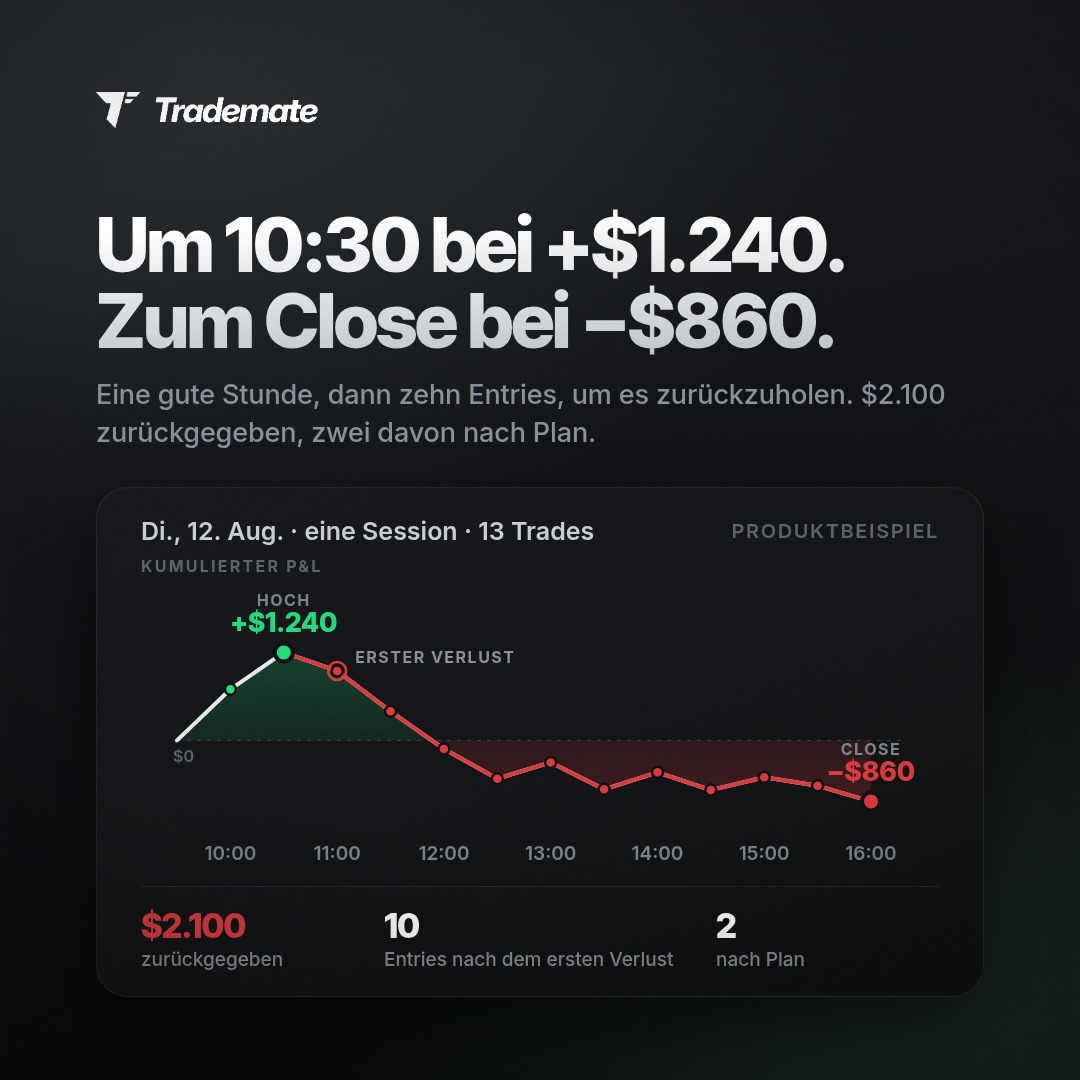
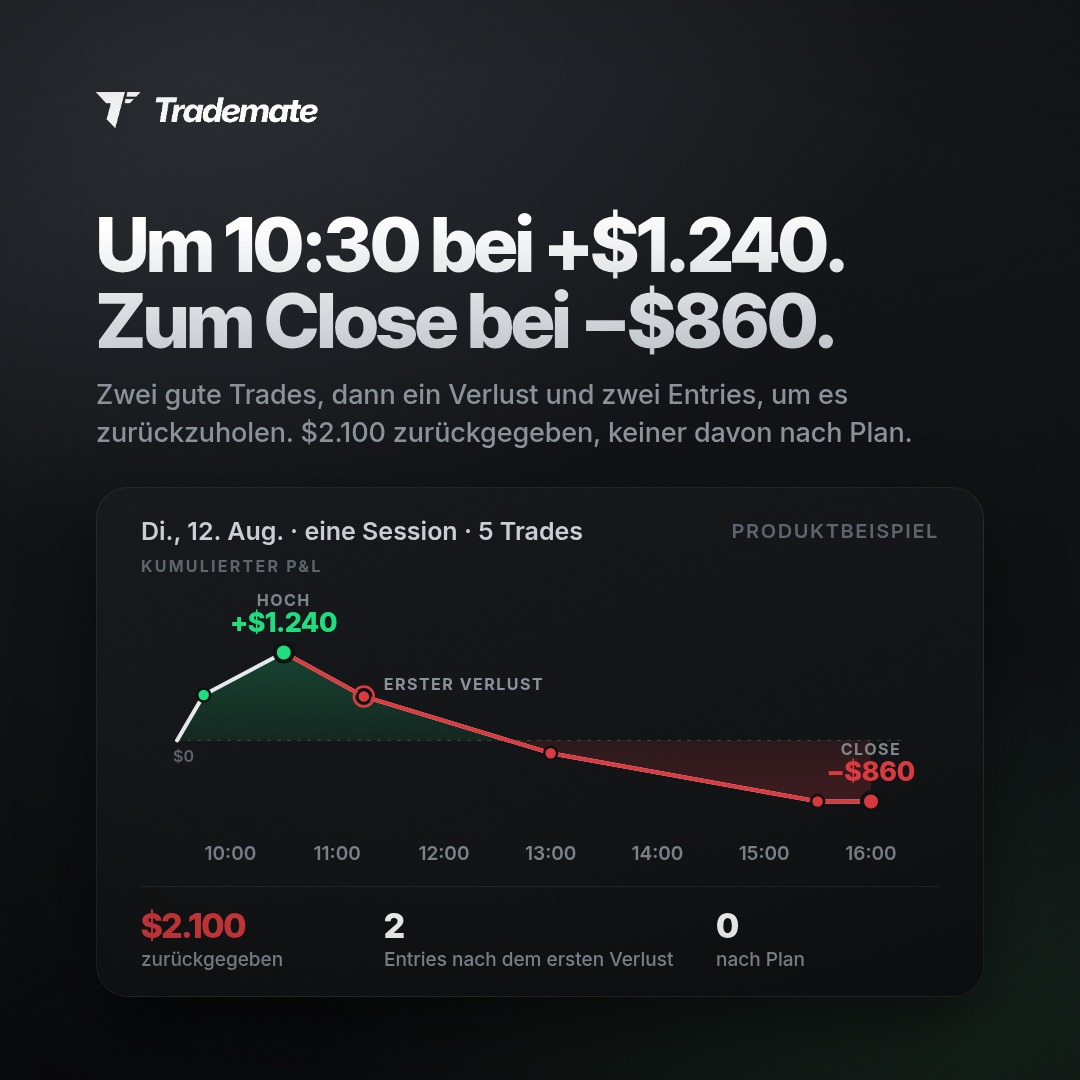
Day post: five trades, not thirteen
Thirteen entries a session is scalper volume, not a day trader's. The
session now has five: two wins to +$1,240, the first loss at 11:15, then
two oversized entries to get it back, closing at -$860. The curve is
time-based so the trades sit at their real times and the line holds flat
into the close. KPI strip and captions updated to match.

Claude-Session: https://claude.ai/code/session_01N2gUmRZUhZ4hqjJePYK53L

diff --git a/posts/pain-day-swing/src/post.html b/posts/pain-day-swing/src/post.html
@@ -163,9 +163,9 @@ en:{
   stB:'Auto charts', stBd:'Every trade gets its chart attached automatically. Entry, exit, stop, target.',
   vote:'Vote below', zoneA:'Poll sticker goes here', zoneB:'Options: Backtesting · Auto charts',
   disc:'Product concept. Features shown are planned, not final.',
-  dayH:'Up $1,240 at 10:30.<br>Down $860 at the close.', dayS:'One good hour, then ten entries to get it back. $2,100 given back, two of them on the plan.',
-  dayM:'Tue, Aug 12 · one session · 13 trades', dayY:'Cumulative P&L', dayF:'Product example', dayHi:'High', dayCl:'Close', dayFL:'First loss',
-  dayK:[['$2,100','given back'],['10','entries after the first loss'],['2','on the plan']],
+  dayH:'Up $1,240 at 10:30.<br>Down $860 at the close.', dayS:'Two good trades, then one loss and two entries to get it back. $2,100 given back, neither of them on the plan.',
+  dayM:'Tue, Aug 12 · one session · 5 trades', dayY:'Cumulative P&L', dayF:'Product example', dayHi:'High', dayCl:'Close', dayFL:'First loss',
+  dayK:[['$2,100','given back'],['2','entries after the first loss'],['0','on the plan']],
   swH:'Your plan: +$2,750.<br>You: −$1,250.', swS:'Same six trades. One runner cut at +0.6R that went to +4R. One stop ignored into the weekend. One stop moved. Between the plan and the trader: $4,000.',
   swM:'This month · 6 swing trades · 1R = $500', swN:'As traded', swP:'On plan', swF:'Product example', plan:'On plan', early:'Cut early', earlyN:'ran to', ignored:'Stop ignored', ignoredN:'planned', moved:'Stop moved', movedN:'planned'
 },
@@ -193,9 +193,9 @@ de:{
   stB:'Auto-Charts', stBd:'Jeder Trade bekommt seinen Chart automatisch angehängt. Entry, Exit, Stop, Ziel.',
   vote:'Stimm unten ab', zoneA:'Umfrage-Sticker hier platzieren', zoneB:'Optionen: Backtesting · Auto-Charts',
   disc:'Produktkonzept. Gezeigte Funktionen sind geplant, nicht final.',
-  dayH:'Um 10:30 bei +$1.240.<br>Zum Close bei −$860.', dayS:'Eine gute Stunde, dann zehn Entries, um es zurückzuholen. $2.100 zurückgegeben, zwei davon nach Plan.',
-  dayM:'Di., 12. Aug. · eine Session · 13 Trades', dayY:'Kumulierter P&L', dayF:'Produktbeispiel', dayHi:'Hoch', dayCl:'Close', dayFL:'Erster Verlust',
-  dayK:[['$2.100','zurückgegeben'],['10','Entries nach dem ersten Verlust'],['2','nach Plan']],
+  dayH:'Um 10:30 bei +$1.240.<br>Zum Close bei −$860.', dayS:'Zwei gute Trades, dann ein Verlust und zwei Entries, um es zurückzuholen. $2.100 zurückgegeben, keiner davon nach Plan.',
+  dayM:'Di., 12. Aug. · eine Session · 5 Trades', dayY:'Kumulierter P&L', dayF:'Produktbeispiel', dayHi:'Hoch', dayCl:'Close', dayFL:'Erster Verlust',
+  dayK:[['$2.100','zurückgegeben'],['2','Entries nach dem ersten Verlust'],['0','nach Plan']],
   swH:'Dein Plan: +$2.750.<br>Du: −$1.250.', swS:'Dieselben sechs Trades. Ein Runner bei +0,6R gekappt, der bis +4R lief. Ein Stop übers Wochenende ignoriert, einer verschoben. Zwischen Plan und Trader: $4.000.',
   swM:'Dieser Monat · 6 Swing-Trades · 1R = $500', swN:'So gehandelt', swP:'Nach Plan', swF:'Produktbeispiel', plan:'Nach Plan', early:'Zu früh raus', earlyN:'lief bis', ignored:'Stop ignoriert', ignoredN:'geplant', moved:'Stop verschoben', movedN:'geplant'
 }}[LANG];
@@ -221,35 +221,31 @@ function candles(){ // deterministic little 5m chart for slide 6
 const logo='<img class="logo" src="logo.png" alt="Trademate">';
 const foot=(n)=>'<div class="foot"><span>'+C.brand+'</span><span>'+(n<7?C.swipe:'')+'</span><span>'+n+' / 7</span></div>';
 function runningPnl(){
-  const pts=[['09:30',0],['10:00',720],['10:30',1240],['11:00',980],['11:30',410],['12:00',-120],['12:30',-540],['13:00',-310],['13:30',-690],['14:00',-450],['14:30',-700],['15:00',-520],['15:30',-640],['16:00',-860]];
-  const W=800,H=290,padL=36,padR=70,top=56,bot=46,min=-1150,max=1500;
-  const n=pts.length, x=i=>padL+i*(W-padL-padR)/(n-1), y=v=>top+(max-v)/(max-min)*(H-top-bot);
+  // [minutes since 09:30, cumulative P&L, is a trade close]
+  const pts=[[0,0,false],[15,640,true],[60,1240,true],[105,620,true],[210,-180,true],[360,-860,true],[390,-860,false]];
+  const W=800,H=290,padL=36,padR=70,top=56,bot=46,min=-1150,max=1500,T=390;
+  const x=m=>padL+m*(W-padL-padR)/T, y=v=>top+(max-v)/(max-min)*(H-top-bot);
   const dol=v=>(v>=0?'+':'−')+'$'+Math.abs(v).toLocaleString(LANG==='de'?'de-DE':'en-US');
-  const d=pts.map((p,i)=>(i?'L':'M')+x(i).toFixed(1)+' '+y(p[1]).toFixed(1)).join(' ');
+  const d=pts.map((p,i)=>(i?'L':'M')+x(p[0]).toFixed(1)+' '+y(p[1]).toFixed(1)).join(' ');
   let s='<svg width="'+W+'" height="'+H+'" viewBox="0 0 '+W+' '+H+'">';
   s+='<defs><linearGradient id="gA" x1="0" y1="0" x2="0" y2="1"><stop offset="0" stop-color="#1FDD7F" stop-opacity=".22"/><stop offset="1" stop-color="#1FDD7F" stop-opacity="0"/></linearGradient>'
    +'<linearGradient id="gR" x1="0" y1="0" x2="0" y2="1"><stop offset="0" stop-color="#DC3A40" stop-opacity="0"/><stop offset="1" stop-color="#DC3A40" stop-opacity=".22"/></linearGradient>'
    +'<clipPath id="cUp"><rect x="0" y="0" width="'+W+'" height="'+y(0)+'"/></clipPath><clipPath id="cDn"><rect x="0" y="'+y(0)+'" width="'+W+'" height="'+(H-y(0))+'"/></clipPath></defs>';
   s+='<line x1="'+padL+'" x2="'+(W-padR+30)+'" y1="'+y(0)+'" y2="'+y(0)+'" stroke="rgba(255,255,255,.18)" stroke-dasharray="4 6"/>';
   s+='<text x="'+(padL-4)+'" y="'+(y(0)+22)+'" font-family="Inter" font-size="16" font-weight="600" fill="#5d646b">$0</text>';
-  const area='M'+x(0)+' '+y(0)+' '+pts.map((p,i)=>'L'+x(i)+' '+y(p[1])).join(' ')+' L'+x(n-1)+' '+y(0)+'Z';
+  const area='M'+x(0)+' '+y(0)+' '+pts.map(p=>'L'+x(p[0])+' '+y(p[1])).join(' ')+' L'+x(T)+' '+y(0)+'Z';
   s+='<path d="'+area+'" fill="url(#gA)" clip-path="url(#cUp)"/><path d="'+area+'" fill="url(#gR)" clip-path="url(#cDn)"/>';
   s+='<path d="'+d+'" fill="none" stroke="#e6e9ec" stroke-width="4" stroke-linejoin="round" stroke-linecap="round"/>';
-  // everything after the high, in red
-  s+='<path d="'+pts.slice(2).map((p,i)=>(i?'L':'M')+x(i+2).toFixed(1)+' '+y(p[1]).toFixed(1)).join(' ')+'" fill="none" stroke="#DC3A40" stroke-width="4" stroke-linejoin="round" stroke-linecap="round"/>';
-  // one dot per trade
-  pts.forEach((p,i)=>{ if(i===0) return; const col=i<=2?'#1FDD7F':'#DC3A40'; s+='<circle cx="'+x(i)+'" cy="'+y(p[1])+'" r="5.5" fill="'+col+'" stroke="#0e1012" stroke-width="2.5"/>'; });
-  // hour ticks
-  pts.forEach((p,i)=>{ if(i%2===0) return; s+='<text x="'+x(i)+'" y="'+(H-8)+'" text-anchor="middle" font-family="Inter" font-size="19" font-weight="600" fill="#7e868d">'+p[0]+'</text>'; });
-  const big=(i,v,l,col,above)=>{s+='<circle cx="'+x(i)+'" cy="'+y(v)+'" r="9" fill="'+col+'" stroke="#0e1012" stroke-width="4"/>';
-    const ty=above?y(v)-20:y(v)+36, ly=above?ty-26:ty+24;
-    s+='<text x="'+x(i)+'" y="'+ty+'" text-anchor="middle" font-family="Inter Tight" font-size="27" font-weight="800" fill="'+col+'">'+dol(v)+'</text>';
-    s+='<text x="'+x(i)+'" y="'+ly+'" text-anchor="middle" font-family="Inter" font-size="16" font-weight="700" fill="#7e868d" letter-spacing="1.5">'+l.toUpperCase()+'</text>';};
-  big(2,1240,C.dayHi,'#1FDD7F',true);
-  big(13,-860,C.dayCl,'#DC3A40',true);
-  // first loss marker
-  s+='<circle cx="'+x(3)+'" cy="'+y(980)+'" r="9" fill="none" stroke="#DC3A40" stroke-width="2.5"/>';
-  s+='<text x="'+(x(3)+18)+'" y="'+(y(980)-8)+'" font-family="Inter" font-size="16" font-weight="700" fill="#8a9199" letter-spacing="1.5">'+C.dayFL.toUpperCase()+'</text>';
+  s+='<path d="'+pts.slice(2).map((p,i)=>(i?'L':'M')+x(p[0]).toFixed(1)+' '+y(p[1]).toFixed(1)).join(' ')+'" fill="none" stroke="#DC3A40" stroke-width="4" stroke-linejoin="round" stroke-linecap="round"/>';
+  pts.forEach((p,i)=>{ if(!p[2]) return; const col=i<=2?'#1FDD7F':'#DC3A40'; s+='<circle cx="'+x(p[0])+'" cy="'+y(p[1])+'" r="6.5" fill="'+col+'" stroke="#0e1012" stroke-width="2.5"/>'; });
+  for(let h=10;h<=16;h++){ const m=(h-9)*60-30; s+='<text x="'+x(m)+'" y="'+(H-8)+'" text-anchor="middle" font-family="Inter" font-size="19" font-weight="600" fill="#7e868d">'+h+':00</text>'; }
+  const big=(m,v,l,col)=>{s+='<circle cx="'+x(m)+'" cy="'+y(v)+'" r="9" fill="'+col+'" stroke="#0e1012" stroke-width="4"/>';
+    const ty=y(v)-20, ly=ty-26;
+    s+='<text x="'+x(m)+'" y="'+ty+'" text-anchor="middle" font-family="Inter Tight" font-size="27" font-weight="800" fill="'+col+'">'+dol(v)+'</text>';
+    s+='<text x="'+x(m)+'" y="'+ly+'" text-anchor="middle" font-family="Inter" font-size="16" font-weight="700" fill="#7e868d" letter-spacing="1.5">'+l.toUpperCase()+'</text>';};
+  big(60,1240,C.dayHi,'#1FDD7F'); big(390,-860,C.dayCl,'#DC3A40');
+  s+='<circle cx="'+x(105)+'" cy="'+y(620)+'" r="10" fill="none" stroke="#DC3A40" stroke-width="2.5"/>';
+  s+='<text x="'+(x(105)+20)+'" y="'+(y(620)-6)+'" font-family="Inter" font-size="16" font-weight="700" fill="#8a9199" letter-spacing="1.5">'+C.dayFL.toUpperCase()+'</text>';
   return s+'</svg>';
 }
 function hourBars(){

diff --git a/posts/story-feature-poll/src/post.html b/posts/story-feature-poll/src/post.html
@@ -163,9 +163,9 @@ en:{
   stB:'Auto charts', stBd:'Every trade gets its chart attached automatically. Entry, exit, stop, target.',
   vote:'Vote below', zoneA:'Poll sticker goes here', zoneB:'Options: Backtesting · Auto charts',
   disc:'Product concept. Features shown are planned, not final.',
-  dayH:'Up $1,240 at 10:30.<br>Down $860 at the close.', dayS:'One good hour, then ten entries to get it back. $2,100 given back, two of them on the plan.',
-  dayM:'Tue, Aug 12 · one session · 13 trades', dayY:'Cumulative P&L', dayF:'Product example', dayHi:'High', dayCl:'Close', dayFL:'First loss',
-  dayK:[['$2,100','given back'],['10','entries after the first loss'],['2','on the plan']],
+  dayH:'Up $1,240 at 10:30.<br>Down $860 at the close.', dayS:'Two good trades, then one loss and two entries to get it back. $2,100 given back, neither of them on the plan.',
+  dayM:'Tue, Aug 12 · one session · 5 trades', dayY:'Cumulative P&L', dayF:'Product example', dayHi:'High', dayCl:'Close', dayFL:'First loss',
+  dayK:[['$2,100','given back'],['2','entries after the first loss'],['0','on the plan']],
   swH:'Your plan: +$2,750.<br>You: −$1,250.', swS:'Same six trades. One runner cut at +0.6R that went to +4R. One stop ignored into the weekend. One stop moved. Between the plan and the trader: $4,000.',
   swM:'This month · 6 swing trades · 1R = $500', swN:'As traded', swP:'On plan', swF:'Product example', plan:'On plan', early:'Cut early', earlyN:'ran to', ignored:'Stop ignored', ignoredN:'planned', moved:'Stop moved', movedN:'planned'
 },
@@ -193,9 +193,9 @@ de:{
   stB:'Auto-Charts', stBd:'Jeder Trade bekommt seinen Chart automatisch angehängt. Entry, Exit, Stop, Ziel.',
   vote:'Stimm unten ab', zoneA:'Umfrage-Sticker hier platzieren', zoneB:'Optionen: Backtesting · Auto-Charts',
   disc:'Produktkonzept. Gezeigte Funktionen sind geplant, nicht final.',
-  dayH:'Um 10:30 bei +$1.240.<br>Zum Close bei −$860.', dayS:'Eine gute Stunde, dann zehn Entries, um es zurückzuholen. $2.100 zurückgegeben, zwei davon nach Plan.',
-  dayM:'Di., 12. Aug. · eine Session · 13 Trades', dayY:'Kumulierter P&L', dayF:'Produktbeispiel', dayHi:'Hoch', dayCl:'Close', dayFL:'Erster Verlust',
-  dayK:[['$2.100','zurückgegeben'],['10','Entries nach dem ersten Verlust'],['2','nach Plan']],
+  dayH:'Um 10:30 bei +$1.240.<br>Zum Close bei −$860.', dayS:'Zwei gute Trades, dann ein Verlust und zwei Entries, um es zurückzuholen. $2.100 zurückgegeben, keiner davon nach Plan.',
+  dayM:'Di., 12. Aug. · eine Session · 5 Trades', dayY:'Kumulierter P&L', dayF:'Produktbeispiel', dayHi:'Hoch', dayCl:'Close', dayFL:'Erster Verlust',
+  dayK:[['$2.100','zurückgegeben'],['2','Entries nach dem ersten Verlust'],['0','nach Plan']],
   swH:'Dein Plan: +$2.750.<br>Du: −$1.250.', swS:'Dieselben sechs Trades. Ein Runner bei +0,6R gekappt, der bis +4R lief. Ein Stop übers Wochenende ignoriert, einer verschoben. Zwischen Plan und Trader: $4.000.',
   swM:'Dieser Monat · 6 Swing-Trades · 1R = $500', swN:'So gehandelt', swP:'Nach Plan', swF:'Produktbeispiel', plan:'Nach Plan', early:'Zu früh raus', earlyN:'lief bis', ignored:'Stop ignoriert', ignoredN:'geplant', moved:'Stop verschoben', movedN:'geplant'
 }}[LANG];
@@ -221,35 +221,31 @@ function candles(){ // deterministic little 5m chart for slide 6
 const logo='<img class="logo" src="logo.png" alt="Trademate">';
 const foot=(n)=>'<div class="foot"><span>'+C.brand+'</span><span>'+(n<7?C.swipe:'')+'</span><span>'+n+' / 7</span></div>';
 function runningPnl(){
-  const pts=[['09:30',0],['10:00',720],['10:30',1240],['11:00',980],['11:30',410],['12:00',-120],['12:30',-540],['13:00',-310],['13:30',-690],['14:00',-450],['14:30',-700],['15:00',-520],['15:30',-640],['16:00',-860]];
-  const W=800,H=290,padL=36,padR=70,top=56,bot=46,min=-1150,max=1500;
-  const n=pts.length, x=i=>padL+i*(W-padL-padR)/(n-1), y=v=>top+(max-v)/(max-min)*(H-top-bot);
+  // [minutes since 09:30, cumulative P&L, is a trade close]
+  const pts=[[0,0,false],[15,640,true],[60,1240,true],[105,620,true],[210,-180,true],[360,-860,true],[390,-860,false]];
+  const W=800,H=290,padL=36,padR=70,top=56,bot=46,min=-1150,max=1500,T=390;
+  const x=m=>padL+m*(W-padL-padR)/T, y=v=>top+(max-v)/(max-min)*(H-top-bot);
   const dol=v=>(v>=0?'+':'−')+'$'+Math.abs(v).toLocaleString(LANG==='de'?'de-DE':'en-US');
-  const d=pts.map((p,i)=>(i?'L':'M')+x(i).toFixed(1)+' '+y(p[1]).toFixed(1)).join(' ');
+  const d=pts.map((p,i)=>(i?'L':'M')+x(p[0]).toFixed(1)+' '+y(p[1]).toFixed(1)).join(' ');
   let s='<svg width="'+W+'" height="'+H+'" viewBox="0 0 '+W+' '+H+'">';
   s+='<defs><linearGradient id="gA" x1="0" y1="0" x2="0" y2="1"><stop offset="0" stop-color="#1FDD7F" stop-opacity=".22"/><stop offset="1" stop-color="#1FDD7F" stop-opacity="0"/></linearGradient>'
    +'<linearGradient id="gR" x1="0" y1="0" x2="0" y2="1"><stop offset="0" stop-color="#DC3A40" stop-opacity="0"/><stop offset="1" stop-color="#DC3A40" stop-opacity=".22"/></linearGradient>'
    +'<clipPath id="cUp"><rect x="0" y="0" width="'+W+'" height="'+y(0)+'"/></clipPath><clipPath id="cDn"><rect x="0" y="'+y(0)+'" width="'+W+'" height="'+(H-y(0))+'"/></clipPath></defs>';
   s+='<line x1="'+padL+'" x2="'+(W-padR+30)+'" y1="'+y(0)+'" y2="'+y(0)+'" stroke="rgba(255,255,255,.18)" stroke-dasharray="4 6"/>';
   s+='<text x="'+(padL-4)+'" y="'+(y(0)+22)+'" font-family="Inter" font-size="16" font-weight="600" fill="#5d646b">$0</text>';
-  const area='M'+x(0)+' '+y(0)+' '+pts.map((p,i)=>'L'+x(i)+' '+y(p[1])).join(' ')+' L'+x(n-1)+' '+y(0)+'Z';
+  const area='M'+x(0)+' '+y(0)+' '+pts.map(p=>'L'+x(p[0])+' '+y(p[1])).join(' ')+' L'+x(T)+' '+y(0)+'Z';
   s+='<path d="'+area+'" fill="url(#gA)" clip-path="url(#cUp)"/><path d="'+area+'" fill="url(#gR)" clip-path="url(#cDn)"/>';
   s+='<path d="'+d+'" fill="none" stroke="#e6e9ec" stroke-width="4" stroke-linejoin="round" stroke-linecap="round"/>';
-  // everything after the high, in red
-  s+='<path d="'+pts.slice(2).map((p,i)=>(i?'L':'M')+x(i+2).toFixed(1)+' '+y(p[1]).toFixed(1)).join(' ')+'" fill="none" stroke="#DC3A40" stroke-width="4" stroke-linejoin="round" stroke-linecap="round"/>';
-  // one dot per trade
-  pts.forEach((p,i)=>{ if(i===0) return; const col=i<=2?'#1FDD7F':'#DC3A40'; s+='<circle cx="'+x(i)+'" cy="'+y(p[1])+'" r="5.5" fill="'+col+'" stroke="#0e1012" stroke-width="2.5"/>'; });
-  // hour ticks
-  pts.forEach((p,i)=>{ if(i%2===0) return; s+='<text x="'+x(i)+'" y="'+(H-8)+'" text-anchor="middle" font-family="Inter" font-size="19" font-weight="600" fill="#7e868d">'+p[0]+'</text>'; });
-  const big=(i,v,l,col,above)=>{s+='<circle cx="'+x(i)+'" cy="'+y(v)+'" r="9" fill="'+col+'" stroke="#0e1012" stroke-width="4"/>';
-    const ty=above?y(v)-20:y(v)+36, ly=above?ty-26:ty+24;
-    s+='<text x="'+x(i)+'" y="'+ty+'" text-anchor="middle" font-family="Inter Tight" font-size="27" font-weight="800" fill="'+col+'">'+dol(v)+'</text>';
-    s+='<text x="'+x(i)+'" y="'+ly+'" text-anchor="middle" font-family="Inter" font-size="16" font-weight="700" fill="#7e868d" letter-spacing="1.5">'+l.toUpperCase()+'</text>';};
-  big(2,1240,C.dayHi,'#1FDD7F',true);
-  big(13,-860,C.dayCl,'#DC3A40',true);
-  // first loss marker
-  s+='<circle cx="'+x(3)+'" cy="'+y(980)+'" r="9" fill="none" stroke="#DC3A40" stroke-width="2.5"/>';
-  s+='<text x="'+(x(3)+18)+'" y="'+(y(980)-8)+'" font-family="Inter" font-size="16" font-weight="700" fill="#8a9199" letter-spacing="1.5">'+C.dayFL.toUpperCase()+'</text>';
+  s+='<path d="'+pts.slice(2).map((p,i)=>(i?'L':'M')+x(p[0]).toFixed(1)+' '+y(p[1]).toFixed(1)).join(' ')+'" fill="none" stroke="#DC3A40" stroke-width="4" stroke-linejoin="round" stroke-linecap="round"/>';
+  pts.forEach((p,i)=>{ if(!p[2]) return; const col=i<=2?'#1FDD7F':'#DC3A40'; s+='<circle cx="'+x(p[0])+'" cy="'+y(p[1])+'" r="6.5" fill="'+col+'" stroke="#0e1012" stroke-width="2.5"/>'; });
+  for(let h=10;h<=16;h++){ const m=(h-9)*60-30; s+='<text x="'+x(m)+'" y="'+(H-8)+'" text-anchor="middle" font-family="Inter" font-size="19" font-weight="600" fill="#7e868d">'+h+':00</text>'; }
+  const big=(m,v,l,col)=>{s+='<circle cx="'+x(m)+'" cy="'+y(v)+'" r="9" fill="'+col+'" stroke="#0e1012" stroke-width="4"/>';
+    const ty=y(v)-20, ly=ty-26;
+    s+='<text x="'+x(m)+'" y="'+ty+'" text-anchor="middle" font-family="Inter Tight" font-size="27" font-weight="800" fill="'+col+'">'+dol(v)+'</text>';
+    s+='<text x="'+x(m)+'" y="'+ly+'" text-anchor="middle" font-family="Inter" font-size="16" font-weight="700" fill="#7e868d" letter-spacing="1.5">'+l.toUpperCase()+'</text>';};
+  big(60,1240,C.dayHi,'#1FDD7F'); big(390,-860,C.dayCl,'#DC3A40');
+  s+='<circle cx="'+x(105)+'" cy="'+y(620)+'" r="10" fill="none" stroke="#DC3A40" stroke-width="2.5"/>';
+  s+='<text x="'+(x(105)+20)+'" y="'+(y(620)-6)+'" font-family="Inter" font-size="16" font-weight="700" fill="#8a9199" letter-spacing="1.5">'+C.dayFL.toUpperCase()+'</text>';
   return s+'</svg>';
 }
 function hourBars(){

diff --git a/posts/pain-day-swing/captions.md b/posts/pain-day-swing/captions.md
@@ -5,16 +5,17 @@ mentions a feature or the poll. Every number in a caption is on the card.
 
 ## pain_day — "Up $1,240 at 10:30. Down $860 at the close."
 
-Card: cumulative P&L of one session (Tue, Aug 12), 13 trades, one dot per
-trade. Open $0, high +$1,240 at 10:30, first loss at 11:00, close −$860.
-Given back: $2,100. Entries after the first loss: 10, of which 2 on the plan.
+Card: cumulative P&L of one session (Tue, Aug 12), 5 trades, one dot per
+trade. Open $0, two wins to +$1,240 at 10:30, first loss at 11:15 (−$620),
+then −$800 at 13:00 and −$680 at 15:30, close −$860. Given back: $2,100.
+Entries after the first loss: 2, neither on the plan.
 
 EN
-Up $1,240 by 10:30. Down $860 at the close. Three trades made the morning.
-Ten trades gave it back, and eight of those ten were never on the plan —
-they were attempts to get back to +$1,240. The best hour of the month turned
-into its worst day, and it did not happen on a bad idea. It happened on the
-first loss. Product example: these figures illustrate the feature, not real
+Up $1,240 by 10:30. Down $860 at the close. Two trades made the morning. One
+loss took a third of it, and the two entries that followed were not setups —
+they were attempts to get back to +$1,240, sized to get there fast. Three
+losing trades, $2,100 gone, and the day did not turn on a bad idea. It turned
+on the first loss. Product example: these figures illustrate the feature, not real
 trader results.
 
 See every session as one curve — 7-day trial, link in bio.
@@ -22,11 +23,12 @@ See every session as one curve — 7-day trial, link in bio.
 #daytrading #tradingpsychology #tradingjournal #riskmanagement #tradingedge
 
 DE
-Um 10:30 bei +$1.240. Zum Close bei −$860. Drei Trades haben den Morgen
-gemacht. Zehn Trades haben ihn zurückgegeben, und acht dieser zehn waren nie
-nach Plan — sie waren Versuche, zurück auf +$1.240 zu kommen. Die beste Stunde
-des Monats wurde sein schlechtester Tag, und das lag nicht an einer schlechten
-Idee. Es lag am ersten Verlust. Produktbeispiel: Die Zahlen veranschaulichen
+Um 10:30 bei +$1.240. Zum Close bei −$860. Zwei Trades haben den Morgen
+gemacht. Ein Verlust hat ein Drittel davon genommen, und die zwei Entries
+danach waren keine Setups — sie waren Versuche, zurück auf +$1.240 zu kommen,
+groß genug, um schnell dort zu sein. Drei Verlust-Trades, $2.100 weg, und der
+Tag ist nicht an einer schlechten Idee gekippt. Er ist am ersten Verlust
+gekippt. Produktbeispiel: Die Zahlen veranschaulichen
 die Funktion, keine echten Handelsergebnisse.
 
 Sieh jede Session als eine Kurve — 7 Tage kostenlos, Link in Bio.
